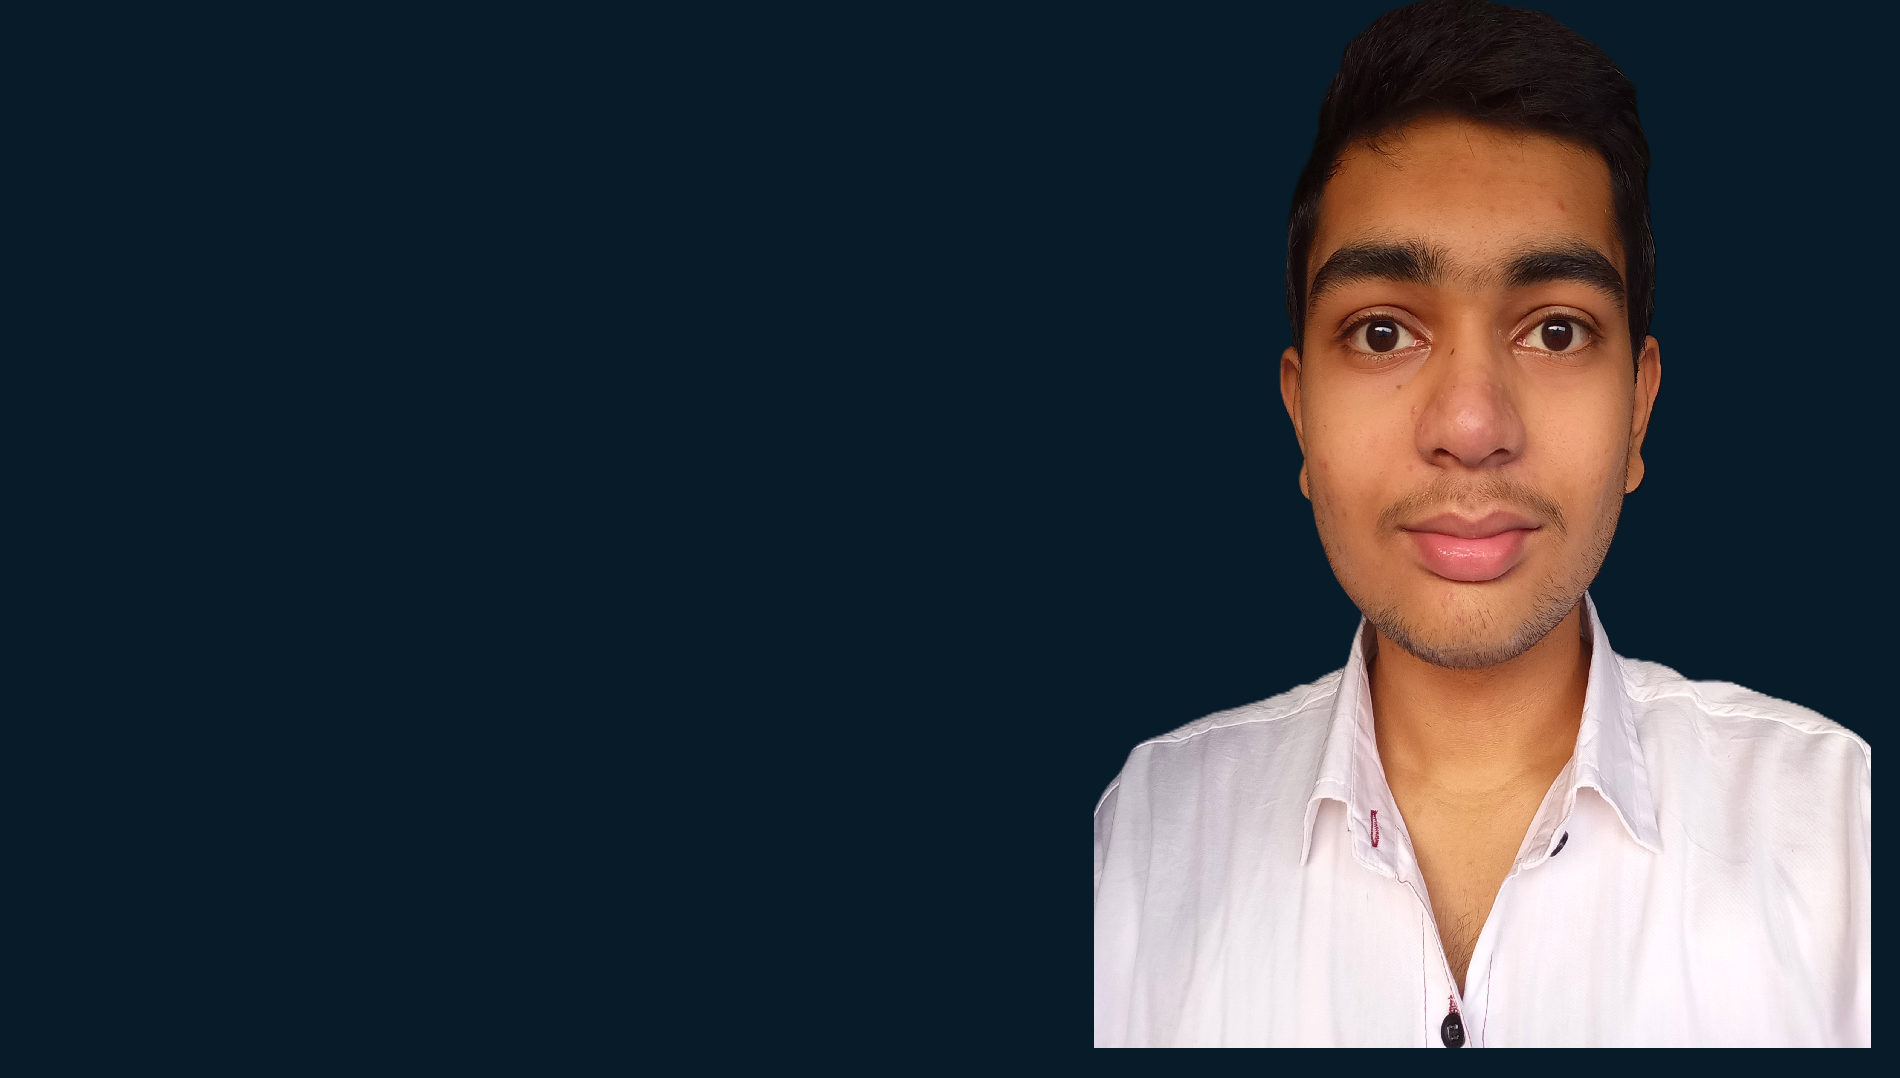
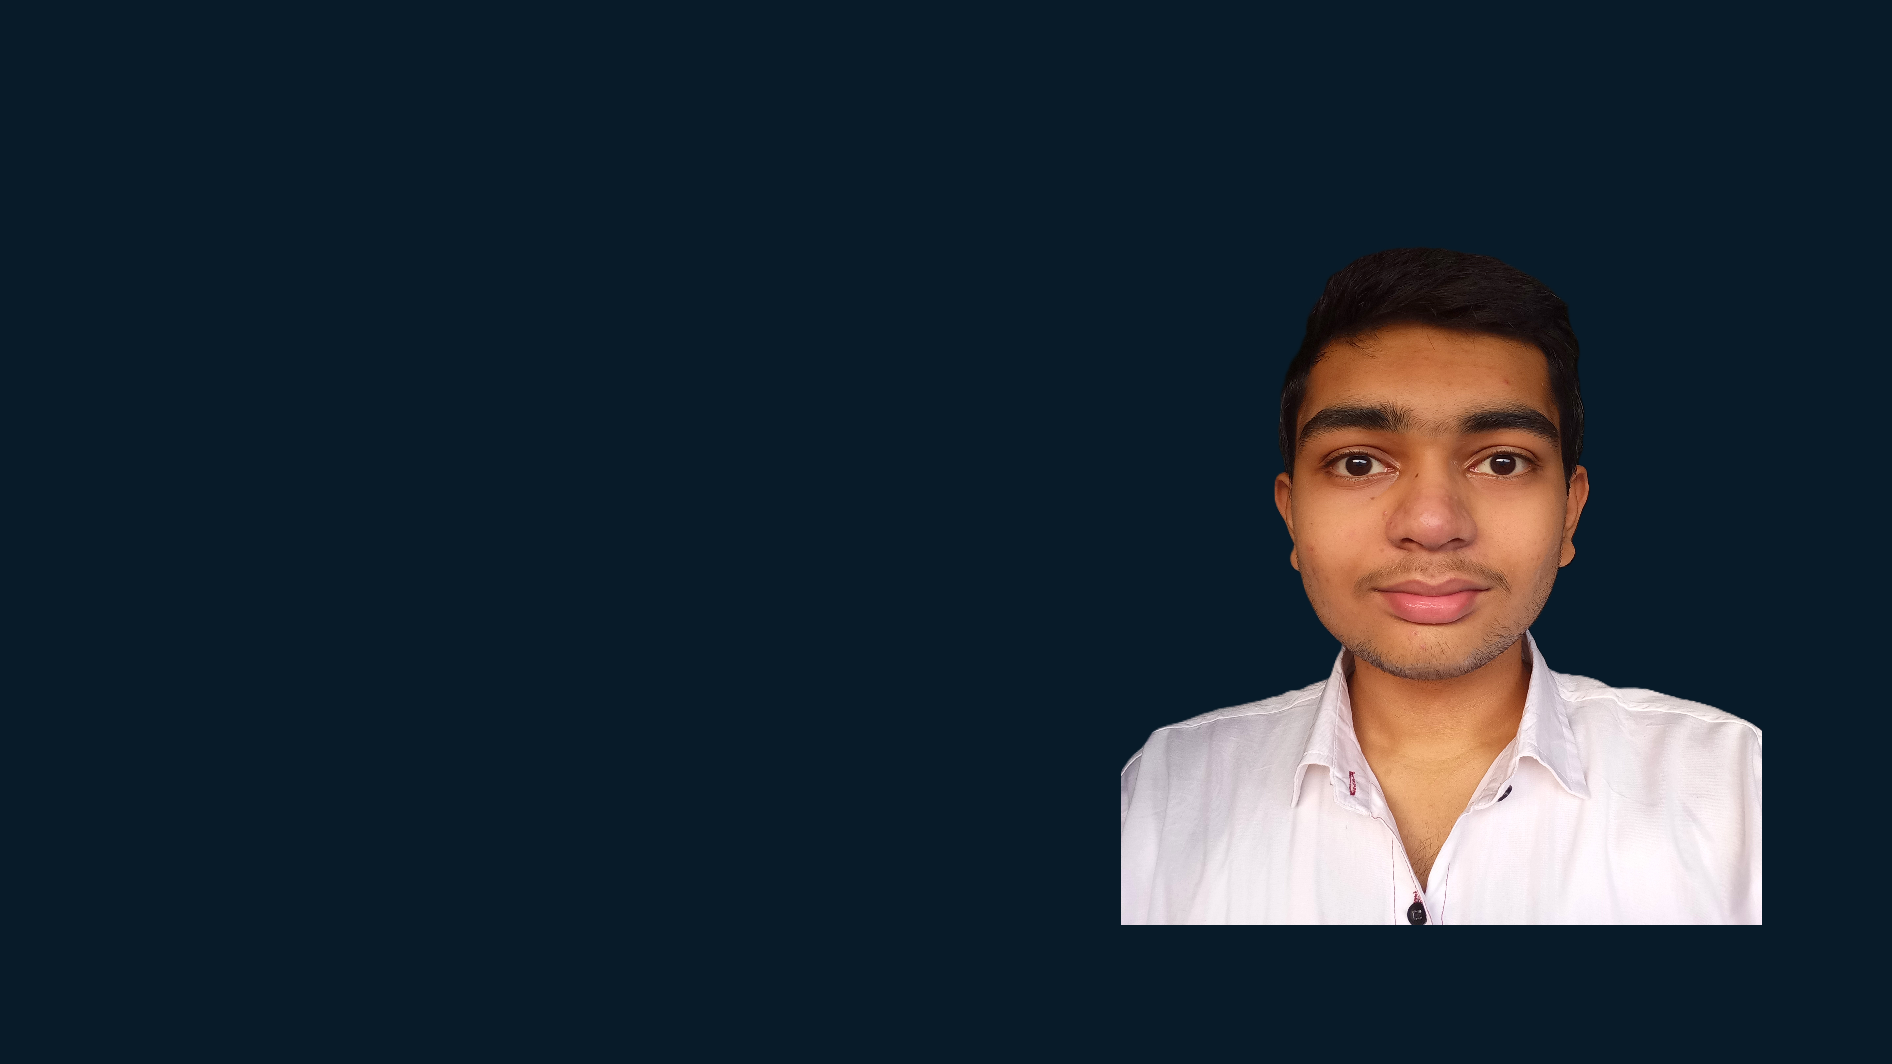
portfolio done

Changed region(s): [[0.5613, 0.0, 0.9979, 0.9925], [0.6237, 0.8064, 0.6549, 0.8374]]

diff --git a/src/PORTFOLIO/index.html b/src/PORTFOLIO/index.html
@@ -54,7 +54,7 @@ I enjoy turning ideas into scalable apps and am constantly learning new tools an
       </div>
       <div class="home-sci">
         <a href="https://github.com/hemantjawale"> <i class="bx bxl-github"></i> </a>
-        <a href="#"> <img src="/assets/x_icon.svg" alt="" srcset="" /></a>
+        <a href="https://x.com/C0dify_"> <img src="/assets/x_icon.svg" alt="" srcset="" /></a>
         <a href="https://www.linkedin.com/in/hemant-jawale/"><i class="bx bxl-linkedin"></i></a>
         <span class="animate" style="--i: 6"></span>
       </div>
@@ -160,7 +160,7 @@ I enjoy turning ideas into code and love collaborating on projects, hackathons, 
 
             <div class="education-content">
               <div class="content">
-                <div class="year"><i class='bx bx-link-alt'></i>2023-2027</div>
+                <div class="year"><i class='bx bx-link-alt'></i><a href="https://js-projects-1zqr.vercel.app/" class="deploy">Cart-List</a></div>
                 <h3>Cart Item</h3>
                 <p>
                  A simple Project to calculate the total cart prize and to view cart

diff --git a/src/PORTFOLIO/style.css b/src/PORTFOLIO/style.css
@@ -785,6 +785,10 @@ span {
 }
 
 @media (max-width: 520px) {
+  
+  .home{
+    background: none;
+  }
   html {
     font-size: 50%;
   }
@@ -805,6 +809,9 @@ span {
 }
 
 @media (max-width: 462px) {
+  .home{
+    background: none;
+  }
   .home-content h1 {
     font-size: 5.2rem;
   }
@@ -936,3 +943,7 @@ section:nth-child(odd) .animate.scroll,
   background: var(--second-bg-color);
 }
 
+.deploy{
+  color: var(--main-color);
+  text-decoration: underline;
+}
